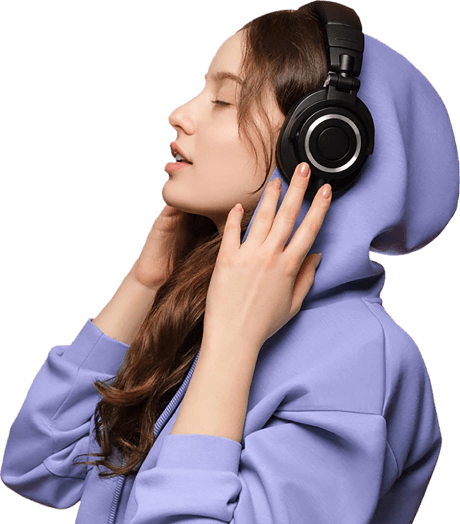
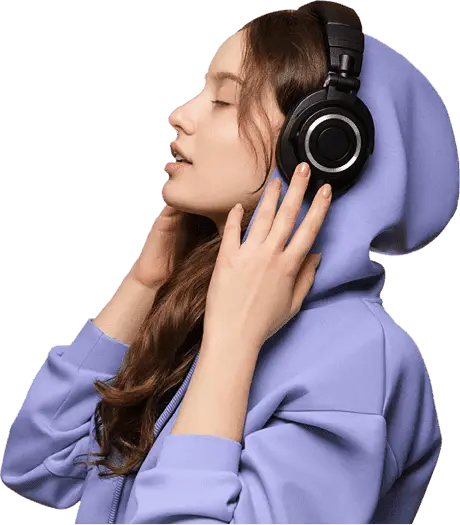
improve lighthouse

diff --git a/src/components/hero-banner/index.js b/src/components/hero-banner/index.js
@@ -5,7 +5,7 @@ import Link from "next/link";
 // import { Swiper, SwiperSlide } from "swiper/react";
 // import { EffectFade } from "swiper";
 // internal
-import slider_img_1 from "@assets/img/slider/13/slider-1.png";
+import slider_img_1 from "@assets/img/slider/13/slider-1.webp";
 // import slider_img_2 from "@assets/img/slider/13/slider-1.png";
 // import slider_img_3 from "@assets/img/slider/13/slider-1.png";
 import { RightArrow } from "@svg/index";
@@ -103,13 +103,13 @@ const HeroBanner = () => {
                   <div className="slider__thumb-13 text-end mr-40">
                     <span className="slider__thumb-13-circle-1"></span>
                     <span className="slider__thumb-13-circle-2"></span>
-                    {/* <Image
+                    <Image
                       // src={item.img}
                       src={slider_img_1}
                       alt="slider img"
                       priority={true}
                       className="position-relative z-1"
-                    /> */}
+                    />
                   </div>
                 </div>
               </div>
